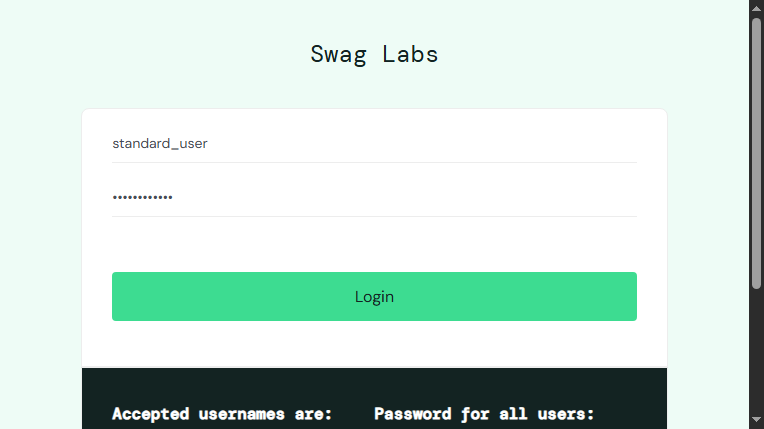
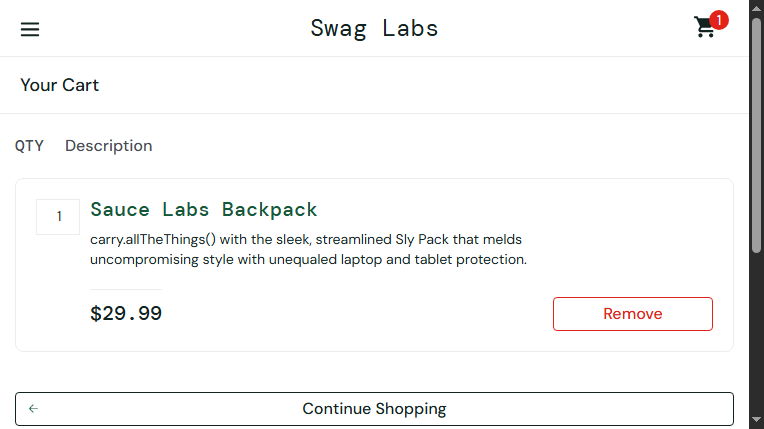
Se agrega pruebas de log

diff --git a/test/test_inventory.py b/test/test_inventory.py
@@ -1,20 +1,29 @@
 from pages.login_page import LoginPage
 from pages.inventory_page import InventoryPage
+from utils.logger import logger
 
 def test_inventory(driver):
+    logger.info("Iniciando prueba de login")
     login_page = LoginPage(driver)
+    logger.info("Iniciando prueba de inventario")
     inventory_page = InventoryPage(driver)
     
     driver.get("https://www.saucedemo.com/")
+    logger.info("Pagina abierta correctamente")
 
     login_page.login("standard_user","secret_sauce")
+    logger.info("Ingreso de credenciales")
 
+    logger.info("Iniciando prueba de productos")
     productos = inventory_page.obtener_productos()
 
     assert len(productos) > 0
 
     assert inventory_page.obtener_nombre_primer_producto() == "Sauce Labs Backpack"
     assert inventory_page.obtener_precio_primer_producto() == "$29.99"
+    logger.info("Prueba de productos correcta")
 
     assert inventory_page.menu_visible()
+    logger.info("Prueba de menu")
     assert inventory_page.filtro_visible()
+    logger.info("Prueba de filtros")

diff --git a/pages/inventory_page.py b/pages/inventory_page.py
@@ -6,6 +6,7 @@ from selenium.webdriver.support import expected_conditions as EC
 class InventoryPage:
     def __init__(self,driver):
         self.driver = driver
+        self.wait = WebDriverWait(driver,10)
 
     def obtener_productos(self):
         return self.driver.find_elements(By.CLASS_NAME,"inventory_item")
@@ -30,3 +31,15 @@ class InventoryPage:
     
              return filtro.is_displayed()
     
+    def agregar_producto(self,nombre):
+        for producto in self.obtener_productos():
+            if producto.find_element(By.CLASS_NAME, "inventory_item_name").text == nombre:
+                producto.find_element(By.TAG_NAME, "button").click()
+                return
+        raise ValueError(f"No se encontró el producto: {nombre}")    
+
+    def obtener_contador_carrito(self):
+        return self.wait.until(EC.visibility_of_element_located((By.CLASS_NAME,"shopping_cart_badge"))).text
+
+    def ir_al_carrito(self):
+        self.wait.until(EC.element_to_be_clickable((By.CLASS_NAME,"shopping_cart_link"))).click()

diff --git a/test/test_cart.py b/test/test_cart.py
@@ -5,22 +5,28 @@ from pages.inventory_page import InventoryPage
 from pages.cart_page import CartPage
 
 from utils.reader import read_productos_json
+from utils.logger import logger
 
 def test_cart(driver):
+    logger.info("Iniciando prueba de login")
     login_page = LoginPage(driver)
     inventory_page = InventoryPage(driver)
     cart_page = CartPage(driver)
 
     driver.get("https://www.saucedemo.com/")
+    logger.info("Pagina abierta correctamente")
 
     login_page.login("standard_user","secret_sauce")
+    logger.info("Ingreso de credenciales")
     
     producto = read_productos_json()[0]
-    print(producto)
+    
     
     inventory_page.agregar_producto(producto["nombre"])
+    logger.info("Inicio de prueba de carrito")
     
     assert inventory_page.obtener_contador_carrito() == "1"
+    logger.info("Prueba de carrito correcta")
     
     inventory_page.ir_al_carrito()
     
